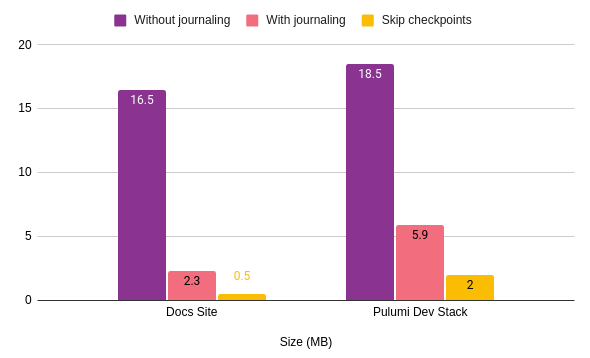
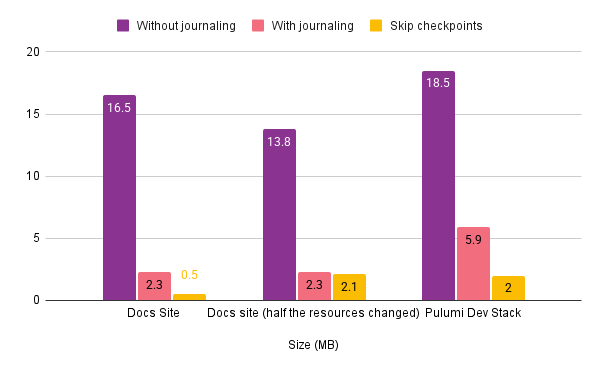
add more data

diff --git a/content/blog/journaling/_index.md b/content/blog/journaling/_index.md
@@ -74,15 +74,23 @@ All the benchmarks are run with journaling off (the default experience), with jo
 |                    | Time   | Bytes sent |
 |--------------------|--------|------------|
 | Without journaling | 58m26s | 16.5MB     |
-| With journaling    | 03m05s | 2.3MB      |
-| Skip checkpoints   | 01m33s | 0.5MB      |
+| With journaling    | 02m50s | 2.3MB      |
+| Skip checkpoints   | 01m33s | 1.9MB      |
+
+These numbers are for setting up the stack from scratch. Now let's have a look at what this looks like if we only change half the resources, but the remaining ones remain unchanged:
+
+|                    | Time   | Bytes sent |
+|--------------------|--------|------------|
+| Without journaling | 34m49s | 13.8MB     |
+| With journaling    | 01m45s | 2.3MB      |
+| Skip checkpoints   | 01m02s | 2.1MB      |
 
 The second example is setting up an instance of the Pulumi app and API. Here we'll have an example that's a bit more dominated by the cost of setting up the actual infrastructure in the cloud, but we still have a very noticeable improvement in the time it takes to set up the stack.
 
 |                    | Time   | Bytes sent |
 |--------------------|--------|------------|
 | Without journaling | 17m52s | 18.5MB     |
-| With journaling    | 9m45s  | 5.9MB      |
+| With journaling    | 9m12s  | 5.9MB      |
 | Skip checkpoints   | 8m39s  | 2MB        |
 
 ![Comparison chart of the timings shown in the tables above](time.png)
